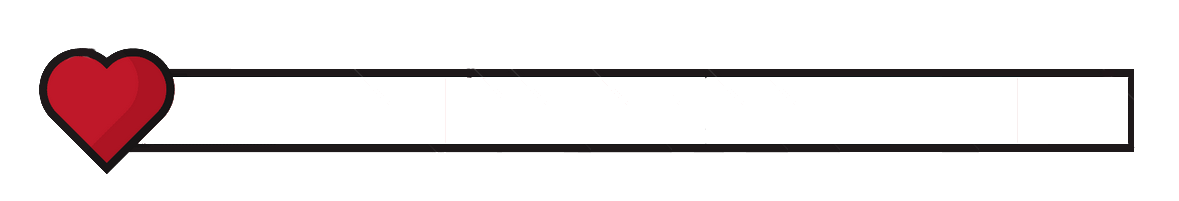
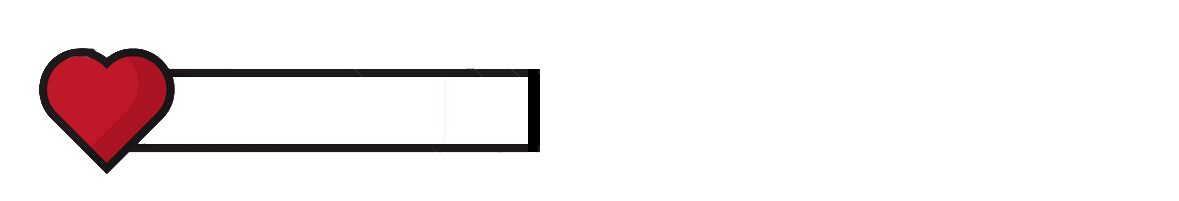
better lifebarre

Changed region(s): [[0.4275, 0.3284, 0.9771, 0.7761]]

diff --git a/src/all_word/genral.c b/src/all_word/genral.c
@@ -16,22 +16,22 @@ static void draw(Global_t *m)
     sfRenderWindow_drawSprite(m->window, m->univ.image_barre, NULL);
 }
 
-void print_boss_barre(Global_t *m, int who, sfView *view)
+void print_boss_barre(Global_t *m, int who, sfSprite *spr)
 {
     float pourcentage_vie = (float)m->perso[who].stat_p.current_hp
     / (float)m->perso[who].stat_p.max_hp;
-    sfVector2f veiw_size = sfView_getSize(view);
-    sfVector2f barres_position;
+    sfVector2f pose = sfSprite_getPosition(spr);
 
-    barres_position.x = (veiw_size.x - 400) / 2;
-    barres_position.y = 36;
-    sfRectangleShape_setPosition(m->univ.barre_de_vie, barres_position);
-    sfRectangleShape_setPosition(m->univ.barre_fond, barres_position);
-    barres_position.x = (veiw_size.x - 505) / 2;
-    barres_position.y = 6;
-    sfSprite_setPosition(m->univ.image_barre, barres_position);
-    sfRectangleShape_setSize(m->univ.barre_de_vie,
-    (sfVector2f){400 * pourcentage_vie, 30});
+    pose.y -= 10;
+    sfRectangleShape_setPosition(m->univ.barre_de_vie, pose);
+    sfRectangleShape_setPosition(m->univ.barre_fond, pose);
+    pose.x -= 13;
+    pose.y -= 6.5;
+    sfSprite_setPosition(m->univ.image_barre, pose);
+    sfRectangleShape_setScale(m->univ.barre_de_vie,(sfVector2f){0.1, 0.3});
+    sfRectangleShape_setScale(m->univ.barre_fond,(sfVector2f){0.1, 0.3});
+    sfSprite_setScale(m->univ.image_barre, (sfVector2f){0.1, 0.1});
+    sfRectangleShape_setSize(m->univ.barre_de_vie,(sfVector2f){400 * pourcentage_vie, 30});
     draw(m);
 }
 

diff --git a/src/setting_folder/event_setting.c b/src/setting_folder/event_setting.c
@@ -15,7 +15,7 @@ void big_size(sfVector2i mu, Global_t *m)
     mode.bitsPerPixel = 32;
     sfRenderWindow_close(m->window);
     m->window = sfRenderWindow_create(mode, "MY_RPG", sfResize | sfClose, NULL);
-    sfMouse_setPosition((sfVector2i){mu.x, mu.y}, m->window);
+    sfMouse_setPositionRenderWindow((sfVector2i){mu.x, mu.y}, m->window);
 }
 
 void diff_size(sfVector2i mu, Global_t *m)
@@ -29,14 +29,14 @@ void diff_size(sfVector2i mu, Global_t *m)
         mode = sfVideoMode_getDesktopMode();
         sfRenderWindow_close(m->window);
         m->window = sfRenderWindow_create(mode, "MY_RPG", sfFullscreen, NULL);
-        sfMouse_setPosition((sfVector2i){mu.x, mu.y}, m->window);
+        sfMouse_setPositionRenderWindow((sfVector2i){mu.x, mu.y}, m->window);
     } else if (sfFloatRect_contains(&mediumzBounds, mu.x, mu.y)) {
         mode.width = 1280;
         mode.height = 720;
         mode.bitsPerPixel = 32;
         sfRenderWindow_close(m->window);
         m->window = sfRenderWindow_create(mode, "MY_RPG", sfResize | sfClose, NULL);
-        sfMouse_setPosition((sfVector2i){mu.x, mu.y}, m->window);
+        sfMouse_setPositionRenderWindow((sfVector2i){mu.x, mu.y}, m->window);
     } else if (sfFloatRect_contains(&bigzBounds, mu.x, mu.y)) {
         big_size(mu, m);
     }

diff --git a/src/rpg.h b/src/rpg.h
@@ -159,7 +159,7 @@ typedef struct Glob {
 void swap_current(Global_t *m);
 void draw_mouse(Global_t *m);
 void roy_stats(Perso_t *perso);
-void print_boss_barre(Global_t *m, int who, sfView *view);
+void print_boss_barre(Global_t *m, int who, sfSprite *spr);
 void xmarano_stats(Perso_t *perso);
 void pate_stats(Perso_t *perso);
 void infe_stats(Perso_t *perso);
@@ -200,6 +200,7 @@ void init_loading(Global_t *m);
 void loading_screen(Global_t *m);
 void save_auto(Global_t *m);
 void draw_shop(Global_t *m);
+void what_world_dia(Global_t *m);
 void init_shop(Global_t *m);
 void empty_slot(Global_t *m, sfVector2f pose_sp, sfVector2f pose_txt);
 void destroy_shop(Global_t *m);
@@ -276,7 +277,7 @@ void verif_thing(Global_t *m);
 void synopsis_bool(Global_t *m);
 void destroy_all(Global_t *m);
 void verif_song(sfVector2i mouse, Global_t *m);
-void parse_file(char *filename, RenderContext_t *context, Global_t *m);
+void parse_file(char *filename, RenderContext_t *context, Global_t *m, int curr);
 void wordpt(char *str, RenderContext_t *context,
     const char *num, int position);
 void hero_speak(char *phrase, const char *num, RenderContext_t *context);

diff --git a/src/all_word/monde1.c b/src/all_word/monde1.c
@@ -12,6 +12,19 @@
 #include "../include/npc.h"
 #include <ctype.h>
 
+static void look_loose(Global_t *m)
+{
+    int nbr = 0;
+
+    for (int i = 0; i < 5; i++) {
+        if (m->perso[i].stat_p.current_hp <= 0)
+            nbr++;
+    }
+    if (nbr == 5) {
+        // m->current = 22;
+    }
+}
+
 void draw_monde1(Global_t *m, fight_t *f)
 {
     if (m->current == 1) {
@@ -24,12 +37,14 @@ void draw_monde1(Global_t *m, fight_t *f)
             all_perso_movement(m, m->current_map);
         if (m->univ.interface.limite_tour == 0 && !m->univ.interface.go_fight)
             all_ennemy_movement(m, m->current_map);
-        //print_boss_barre(m, BOSS1, m->zone1.view_w1);
         print_mini_barre(m, f, 1);
+        print_boss_barre(m, BOSS1, m->univ.spr_Boss1);
         if (m->perso[BOSS1].stat_p.current_hp <= 0) {
             m->zone1.is_w1_clear = true;
-            m->current = 0;
+            m->current = 0; // a deplacer chez leo !
+            // ecran win de leo current 23
         }
+        look_loose(m);
         return_and_old_current2(m, 1);
     }
 }

diff --git a/src/what_word_dia.c b/src/what_word_dia.c
@@ -1,0 +1,33 @@
+/*
+** EPITECH PROJECT, 2023
+** B-MUL-200-MAR-2-1-myrpg-yanis.prevost
+** File description:
+** what_word_dia.c
+*/
+
+#include "rpg.h"
+#include "include/perso.h"
+#include "include/menu.h"
+#include "my.h"
+
+void what_world_dia(Global_t *m)
+{
+    RenderContext_t context = {m->window, m->setting.fontdi};
+
+    if (m->dialogue.start_dialogue == 1) {
+        m->current_combat = 1;
+        m->current_boss = 5;
+        m->old_map = str_to_word_array(get_buff("maps/map1/map1.txt"));
+        m->current_map = str_to_word_array(get_buff("maps/map1/map1.txt"));
+        parse_file("dialogue/chap1.txt", &context, m, 1);
+        return;
+    }
+    if (m->dialogue.start_dialogue == 2) {
+        m->current_combat = 2;
+        m->current_boss = 6;
+        m->old_map = str_to_word_array(get_buff("maps/map2/map2.txt"));
+        m->current_map = str_to_word_array(get_buff("maps/map2/map2.txt"));
+        parse_file("dialogue/chap2.txt", &context, m, 2);
+        return;
+    }
+}

diff --git a/src/gameplay/event_interface.c b/src/gameplay/event_interface.c
@@ -50,16 +50,13 @@ static void attack3(Global_t *m, int i, int j, fight_t *f)
         if (m->current_map[i + 1][j] == liste_emy[k]) {
             import_emy_in_battle(m, k, f);
             return;
-        }
-        if (m->current_map[i - 1][j] == liste_emy[k]) {
+        } else if (m->current_map[i - 1][j] == liste_emy[k]) {
             import_emy_in_battle(m, k, f);
             return;
-        }
-        if (m->current_map[i][j + 1] == liste_emy[k]) {
+        } else if (m->current_map[i][j + 1] == liste_emy[k]) {
             import_emy_in_battle(m, k, f);
             return;
-        }
-        if (m->current_map[i][j - 1] == liste_emy[k]) {
+        } else if (m->current_map[i][j - 1] == liste_emy[k]) {
             import_emy_in_battle(m, k, f);
             return;
         }

diff --git a/src/main.c b/src/main.c
@@ -9,20 +9,6 @@
 #include "include/menu.h"
 #include "my.h"
 
-static void what_world_dia(Global_t *m)
-{
-    RenderContext_t context = {m->window, m->setting.fontdi};
-
-    if (m->dialogue.start_dialogue == 1) {
-        m->current_combat = 1;
-        m->current_boss = 5;
-        m->old_map = str_to_word_array(get_buff("maps/map1/map1.txt"));
-        m->current_map = str_to_word_array(get_buff("maps/map1/map1.txt"));
-        parse_file("dialogue/chap1.txt", &context, m);
-        return;
-    }
-}
-
 static void init_dev(int argc, char **argv, Global_t *m, hub_t *h)
 {
     m->show_mouse = true;

diff --git a/src/dialogue_code/affichage.c b/src/dialogue_code/affichage.c
@@ -74,7 +74,7 @@ int verif_parse(char *line, RenderContext_t *context,
     return 0;
 }
 
-void parse_file(char *filename, RenderContext_t *context, Global_t *m)
+void parse_file(char *filename, RenderContext_t *context, Global_t *m, int curr)
 {
     FILE *file = fopen(filename, "r");
     char line[256];
@@ -94,6 +94,6 @@ void parse_file(char *filename, RenderContext_t *context, Global_t *m)
             break;
     }
     m->dialogue.start_dialogue = 0;
-    m->current = 1;
+    m->current = curr;
     fclose(file);
 }

diff --git a/src/all_word/ennemy_turn.c b/src/all_word/ennemy_turn.c
@@ -16,7 +16,7 @@
 void set_previous_case_ennemy(Global_t *m, sfVector2f pos_spr, char **map)
 {
     if (m->current_map[(int)pos_spr.y / 40 + 1]
-    [(int)pos_spr.x / 40 + 1] != 'Z')
+    [(int)pos_spr.x / 40 + 1] != m->codi.patern)
         map[(int)pos_spr.y / 40 + 1][(int)pos_spr.x / 40 + 1] =
         m->old_map[(int)pos_spr.y / 40 + 1][(int)pos_spr.x / 40 + 1];
     else {

diff --git a/src/all_word/monde3.c b/src/all_word/monde3.c
@@ -20,7 +20,7 @@ void draw_monde3(Global_t *m, fight_t *f)
         move_game_cursor(m);
         //all_perso_movement(m);
         //set_new_position(m, m->univ.spr_roy, &m->perso[ROY]);
-        print_boss_barre(m, BOSS3, m->zone3.view_w3);
+        //print_boss_barre(m, BOSS3, m->zone3.view_w3);
         //print_mini_barre(m, f);
         return_and_old_current2(m, 3);
     }

diff --git a/src/all_word/monde4.c b/src/all_word/monde4.c
@@ -20,7 +20,7 @@ void draw_monde4(Global_t *m, fight_t *f)
         move_game_cursor(m);
         //all_perso_movement(m);
         //set_new_position(m, m->univ.spr_roy, &m->perso[ROY]);
-        print_boss_barre(m, BOSS4, m->zone4.view_w4);
+       // print_boss_barre(m, BOSS4, m->zone4.view_w4);
         //print_mini_barre(m, f);
         return_and_old_current2(m, 4);
     }

diff --git a/src/all_word/monde5.c b/src/all_word/monde5.c
@@ -20,7 +20,7 @@ void draw_monde5(Global_t *m, fight_t *f)
         move_game_cursor(m);
         //all_perso_movement(m);
         //set_new_position(m, m->univ.spr_roy, &m->perso[ROY]);
-        print_boss_barre(m, BOSS5, m->zone5.view_w5);
+        //print_boss_barre(m, BOSS5, m->zone5.view_w5);
         //print_mini_barre(m, f);
         return_and_old_current2(m, 5);
     }
